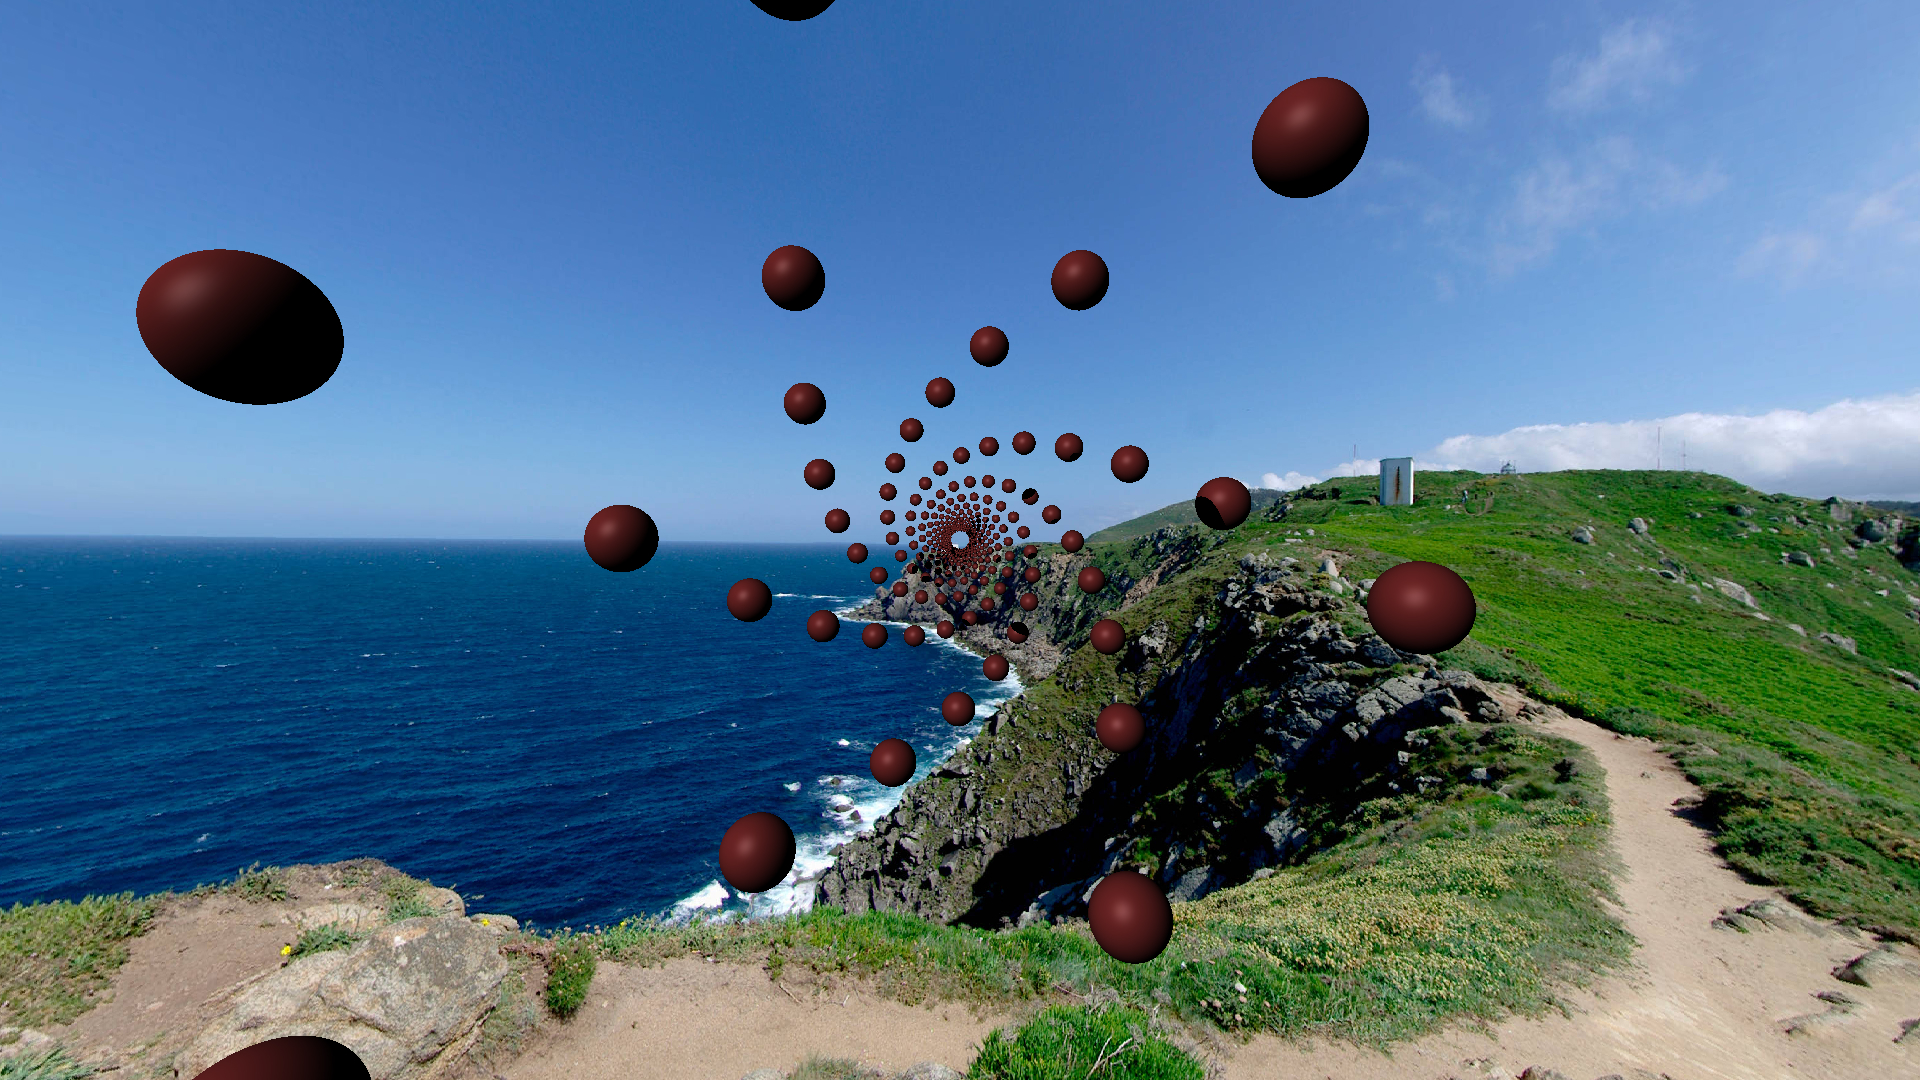
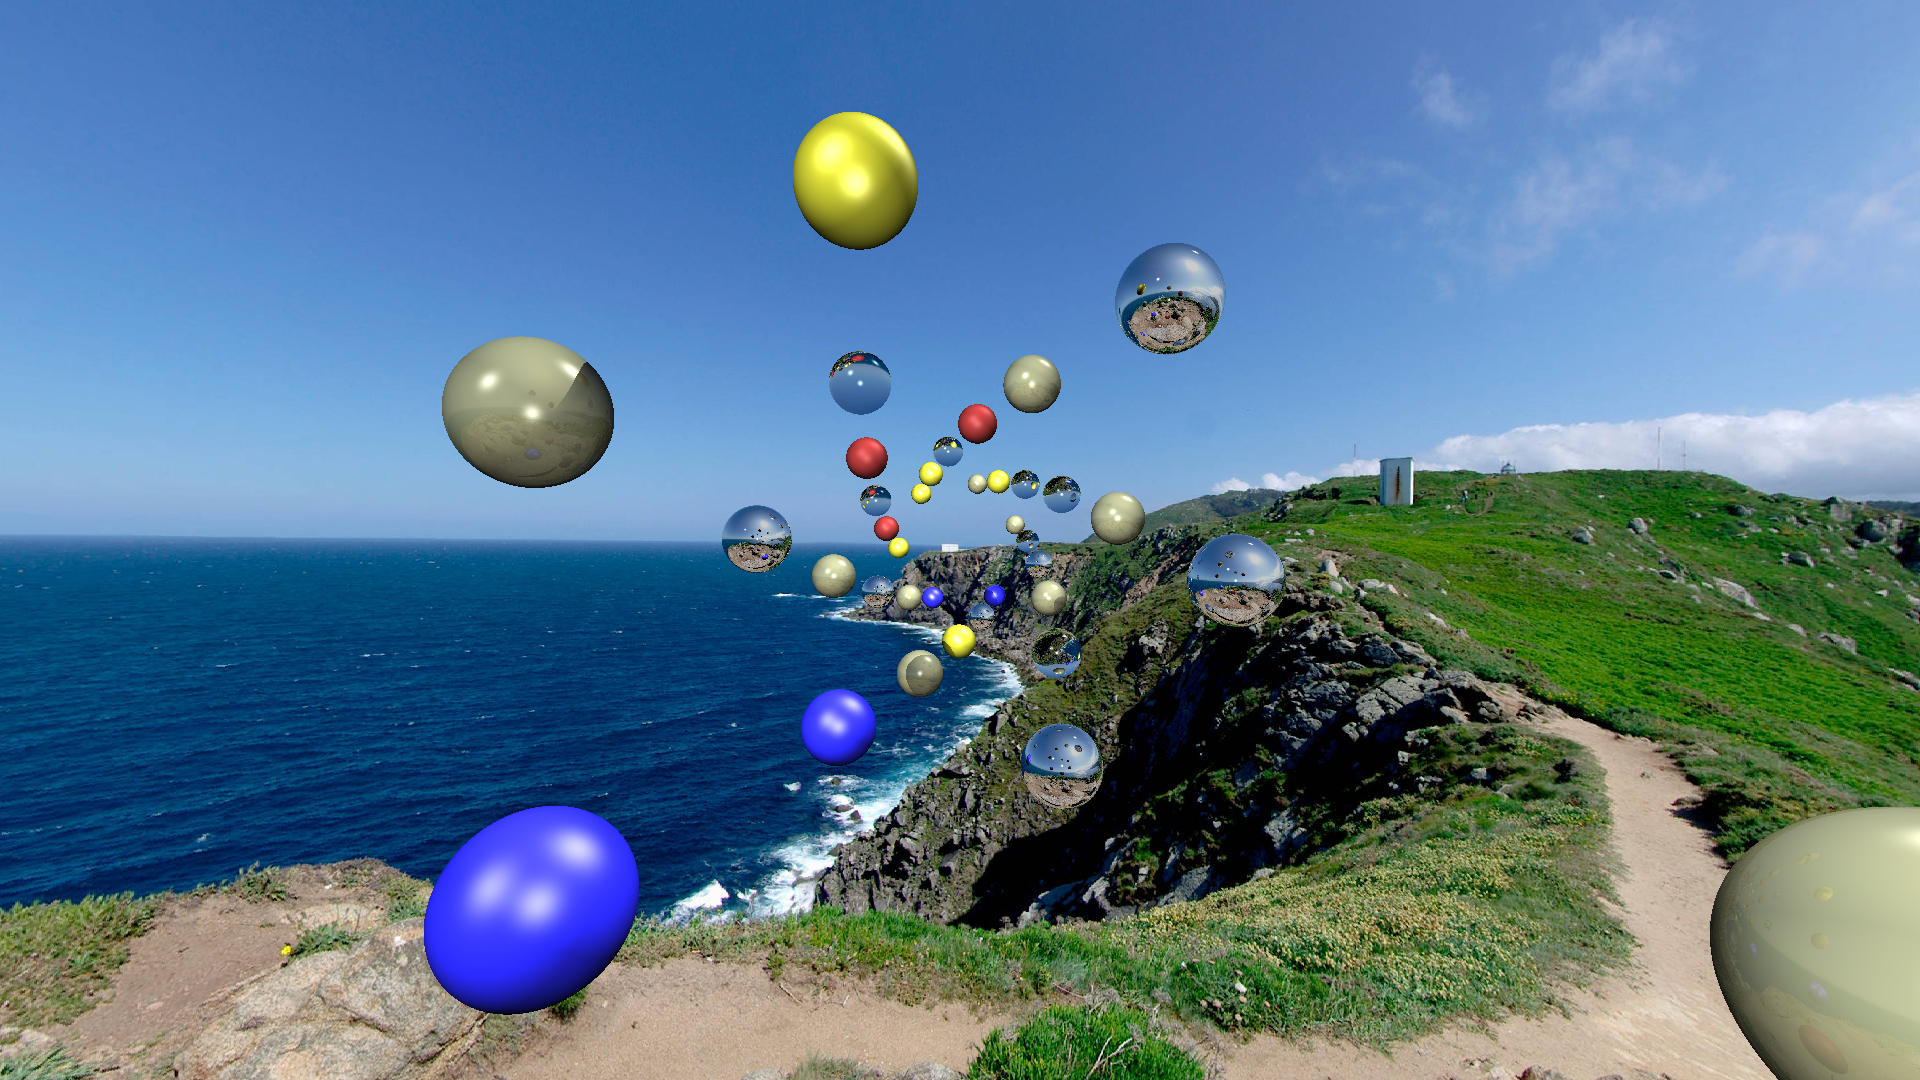
fixed random mtrl

diff --git a/main.cpp b/main.cpp
@@ -82,17 +82,23 @@ class renderer
 		material const yellow_rubber = { color{0.4,  0.4, 0.1, 1.0f}, 0.15, 0.9, 0.3, 0.0, 0.0, 1.0,10. };
 		material const     mirror = { color{ 1.0, 1.0, 1.0, 1.0f},	0.15, 0.0, 0.9, 0.0,0.8, 1.0,1425. };
 
+		material mtrls[] = { ivory , glass , red_rubber, blue_rubber, yellow_rubber, mirror };
+		
 		std::random_device rd{};
 		std::mt19937       gen{ rd() };
-		std::normal_distribution<float>       xzd{ 1.f, 2.f };
-		std::normal_distribution<float>       yd{ 1.f, 2.f };
-		std::uniform_real_distribution<float> radd{ .1f, .7f };
+		std::uniform_int_distribution<>			m{ 0, std::size(mtrls)-1};
+		std::normal_distribution<float>			xzd{ 1.f, 2.f };
+		std::normal_distribution<float>			yd{ 1.f, 2.f };
+		std::uniform_real_distribution<float>	radd{ .1f, .7f };
 
-		for (int i = 0; i < 400; i++)
+		for (int i = 0; i < 40; i++)
 		{
-			render_scene.objects.push_back(std::make_shared<sphere>(vec3f(sin(i) * 5, cos(i) * 5, -i), 0.5, red_rubber));
+			render_scene.objects.push_back(std::make_shared<sphere>(vec3f(sin(i) * 3, cos(i) * 3, -i), 0.5, mtrls[m(gen)]));
 		}
+		
 		render_scene.lights.emplace_back(vec3f(-20, 20, 20), 1.5);
+		render_scene.lights.emplace_back(vec3f(30, 50, -25), 1.8);
+		render_scene.lights.emplace_back(vec3f(0, 0, 0), 1.7);
 	}
 
 	void render() noexcept
@@ -215,6 +221,6 @@ int main()
 	
 	std::cout << std::chrono::duration_cast<std::chrono::duration<double>>(end - start).count() << " s" << std::endl;
 	render.save();
-	std::cin.get();
+	//std::cin.get();
 	return 0;
 }
